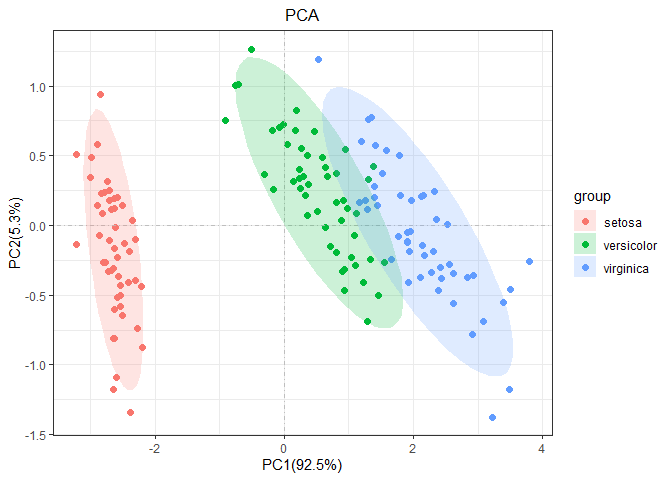
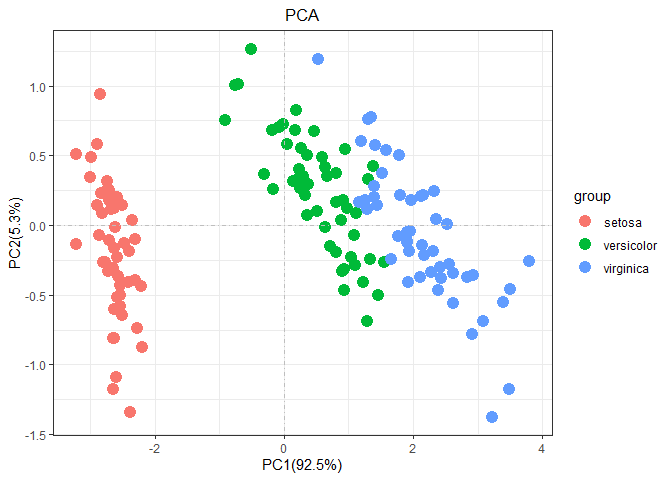
add new fuction 'add_ploy'

diff --git a/README.html b/README.html
@@ -612,33 +612,27 @@ body {
 <p>The R packages only can install the development version from <a href="https://github.com/">GitHub</a> with:</p>
 <div class="sourceCode" id="cb1"><pre class="sourceCode r"><code class="sourceCode r"><a class="sourceLine" id="cb1-1" title="1"><span class="co"># install.packages(&quot;devtools&quot;)</span></a>
 <a class="sourceLine" id="cb1-2" title="2">devtools<span class="op">::</span><span class="kw">install_github</span>(<span class="st">&quot;wangjiaxuan666/autopca&quot;</span>)</a></code></pre></div>
+<p>Notice : if you install <code>autopca</code> failed , please check the R installed envirment. maybe you need install <code>tidyverse</code> or <code>plyr</code> before. IF YOU FAILED WITH ANGRY AND BOOM ERRORS. Please contact me with <a href="mailto:poormouse@126.com">poormouse@126.com</a> , I’ m sorry about what happen to you. Although it’s me, I also have to admit that this is a bug-filled R package.</p>
+<blockquote>
+<p>Every time I use this R packages , it will spend 95% time to fix new bug! Although it will spend a little time if i use the scicpt not R packages. Automation is always very difficult because it is suitable for all kinds of situations and data type. BUT IT IS A FUN WHEN A PROBLEM NEED TO THINK</p>
+</blockquote>
 <h2 id="example">Example</h2>
 <p>Before we start the PCA analysis, we first need to tidy the input data. We can use the function <code>pca_data_tidy</code>to make the data clean for the next PCA analysis.It should be noted that the format of the input data is very important to determine the success of subsequent analysis.</p>
 <p>Here, Emphasize the format of the input data. First, PCA analysis use the function <code>stat::prcomp</code>, Consequently the result given the every observed values’ Variance in principal components. the observed values is the <code>prcomp</code> data’ rownames. For example, the data iris</p>
 <div class="sourceCode" id="cb2"><pre class="sourceCode r"><code class="sourceCode r"><a class="sourceLine" id="cb2-1" title="1"><span class="kw">head</span>(iris)</a>
-<a class="sourceLine" id="cb2-2" title="2"><span class="co">#&gt;   Sepal.Length Sepal.Width Petal.Length</span></a>
-<a class="sourceLine" id="cb2-3" title="3"><span class="co">#&gt; 1          5.1         3.5          1.4</span></a>
-<a class="sourceLine" id="cb2-4" title="4"><span class="co">#&gt; 2          4.9         3.0          1.4</span></a>
-<a class="sourceLine" id="cb2-5" title="5"><span class="co">#&gt; 3          4.7         3.2          1.3</span></a>
-<a class="sourceLine" id="cb2-6" title="6"><span class="co">#&gt; 4          4.6         3.1          1.5</span></a>
-<a class="sourceLine" id="cb2-7" title="7"><span class="co">#&gt; 5          5.0         3.6          1.4</span></a>
-<a class="sourceLine" id="cb2-8" title="8"><span class="co">#&gt; 6          5.4         3.9          1.7</span></a>
-<a class="sourceLine" id="cb2-9" title="9"><span class="co">#&gt;   Petal.Width Species</span></a>
-<a class="sourceLine" id="cb2-10" title="10"><span class="co">#&gt; 1         0.2  setosa</span></a>
-<a class="sourceLine" id="cb2-11" title="11"><span class="co">#&gt; 2         0.2  setosa</span></a>
-<a class="sourceLine" id="cb2-12" title="12"><span class="co">#&gt; 3         0.2  setosa</span></a>
-<a class="sourceLine" id="cb2-13" title="13"><span class="co">#&gt; 4         0.2  setosa</span></a>
-<a class="sourceLine" id="cb2-14" title="14"><span class="co">#&gt; 5         0.2  setosa</span></a>
-<a class="sourceLine" id="cb2-15" title="15"><span class="co">#&gt; 6         0.4  setosa</span></a></code></pre></div>
+<a class="sourceLine" id="cb2-2" title="2"><span class="co">#&gt;   Sepal.Length Sepal.Width Petal.Length Petal.Width Species</span></a>
+<a class="sourceLine" id="cb2-3" title="3"><span class="co">#&gt; 1          5.1         3.5          1.4         0.2  setosa</span></a>
+<a class="sourceLine" id="cb2-4" title="4"><span class="co">#&gt; 2          4.9         3.0          1.4         0.2  setosa</span></a>
+<a class="sourceLine" id="cb2-5" title="5"><span class="co">#&gt; 3          4.7         3.2          1.3         0.2  setosa</span></a>
+<a class="sourceLine" id="cb2-6" title="6"><span class="co">#&gt; 4          4.6         3.1          1.5         0.2  setosa</span></a>
+<a class="sourceLine" id="cb2-7" title="7"><span class="co">#&gt; 5          5.0         3.6          1.4         0.2  setosa</span></a>
+<a class="sourceLine" id="cb2-8" title="8"><span class="co">#&gt; 6          5.4         3.9          1.7         0.4  setosa</span></a></code></pre></div>
 <p>the rownames is every iris ID number, in iris, we want to demonstrate the proportion of each iris flower in terms of petal length and width and so on. That is we want, so for iris data, we just tidy a little for next analysis. Just like</p>
 <div class="sourceCode" id="cb3"><pre class="sourceCode r"><code class="sourceCode r"><a class="sourceLine" id="cb3-1" title="1"><span class="kw">library</span>(autopca)</a>
 <a class="sourceLine" id="cb3-2" title="2">irisgroup &lt;-<span class="st"> </span>iris[,<span class="dv">5</span>] </a>
 <a class="sourceLine" id="cb3-3" title="3">iristidy &lt;-<span class="st"> </span>iris[,<span class="op">-</span><span class="dv">5</span>]</a>
-<a class="sourceLine" id="cb3-4" title="4"><span class="kw">pca</span>(iristidy,<span class="dt">sample_group =</span> <span class="kw">as.data.frame</span>(irisgroup))</a>
-<a class="sourceLine" id="cb3-5" title="5"><span class="co">#&gt; ...Notice: the sequence of sample names</span></a>
-<a class="sourceLine" id="cb3-6" title="6"><span class="co">#&gt; ...must be matched for the input data rownames</span></a>
-<a class="sourceLine" id="cb3-7" title="7"><span class="co">#&gt; ...If not,the result probably is wrong</span></a></code></pre></div>
[1 lines of base64/hex data omitted]
+<a class="sourceLine" id="cb3-4" title="4"><span class="kw">pca</span>(iristidy,<span class="dt">sample_group =</span> <span class="kw">as.data.frame</span>(irisgroup))</a></code></pre></div>
[1 lines of base64/hex data omitted]
 <div class="sourceCode" id="cb4"><pre class="sourceCode r"><code class="sourceCode r"><a class="sourceLine" id="cb4-1" title="1"><span class="co">#pca(iris)</span></a></code></pre></div>
 <p>As for why and how to use <code>autopca</code>, We need to start from the beginning.</p>
 <h2 id="illustration">Illustration</h2>
@@ -652,27 +646,27 @@ body {
 <a class="sourceLine" id="cb5-7" title="7">annot &lt;-<span class="st"> </span><span class="kw">c</span>(<span class="kw">rep</span>(<span class="st">&quot;KEGG&quot;</span>,<span class="dv">20</span>))</a>
 <a class="sourceLine" id="cb5-8" title="8">test &lt;-<span class="st"> </span><span class="kw">data.frame</span>(test,annot)</a>
 <a class="sourceLine" id="cb5-9" title="9"><span class="kw">head</span>(test)</a>
-<a class="sourceLine" id="cb5-10" title="10"><span class="co">#&gt;          Test1       Test2    Test3       Test4</span></a>
-<a class="sourceLine" id="cb5-11" title="11"><span class="co">#&gt; Gene1 2.672491 -1.46949959 3.252826 -0.06280428</span></a>
-<a class="sourceLine" id="cb5-12" title="12"><span class="co">#&gt; Gene2 2.768949 -0.44892401 2.494386  0.74132818</span></a>
-<a class="sourceLine" id="cb5-13" title="13"><span class="co">#&gt; Gene3 1.698751 -0.61545118 3.013371 -0.25985327</span></a>
-<a class="sourceLine" id="cb5-14" title="14"><span class="co">#&gt; Gene4 1.583889 -0.58912730 3.427422 -0.74294740</span></a>
-<a class="sourceLine" id="cb5-15" title="15"><span class="co">#&gt; Gene5 3.219542 -0.06015898 2.593541  1.01296907</span></a>
-<a class="sourceLine" id="cb5-16" title="16"><span class="co">#&gt; Gene6 3.966006  1.12396478 2.956866 -0.72447530</span></a>
-<a class="sourceLine" id="cb5-17" title="17"><span class="co">#&gt;          Test5      Test6    Test7      Test8</span></a>
-<a class="sourceLine" id="cb5-18" title="18"><span class="co">#&gt; Gene1 3.235160  1.5198640 1.382669  0.4984374</span></a>
-<a class="sourceLine" id="cb5-19" title="19"><span class="co">#&gt; Gene2 2.872426  0.9858101 2.941147 -1.5424356</span></a>
-<a class="sourceLine" id="cb5-20" title="20"><span class="co">#&gt; Gene3 3.712901 -0.7299233 2.186138 -0.8485324</span></a>
-<a class="sourceLine" id="cb5-21" title="21"><span class="co">#&gt; Gene4 3.386010 -0.1949071 1.831074  0.9943122</span></a>
-<a class="sourceLine" id="cb5-22" title="22"><span class="co">#&gt; Gene5 4.190842  0.1630293 2.902171  0.3229494</span></a>
-<a class="sourceLine" id="cb5-23" title="23"><span class="co">#&gt; Gene6 3.848001  0.7799471 3.962820  1.3969977</span></a>
-<a class="sourceLine" id="cb5-24" title="24"><span class="co">#&gt;          Test9     Test10 annot</span></a>
-<a class="sourceLine" id="cb5-25" title="25"><span class="co">#&gt; Gene1 1.974234 -1.2025494  KEGG</span></a>
-<a class="sourceLine" id="cb5-26" title="26"><span class="co">#&gt; Gene2 3.583025  1.5028618  KEGG</span></a>
-<a class="sourceLine" id="cb5-27" title="27"><span class="co">#&gt; Gene3 3.523533 -0.1408430  KEGG</span></a>
-<a class="sourceLine" id="cb5-28" title="28"><span class="co">#&gt; Gene4 2.913314  0.8756251  KEGG</span></a>
-<a class="sourceLine" id="cb5-29" title="29"><span class="co">#&gt; Gene5 3.837058 -0.2416067  KEGG</span></a>
-<a class="sourceLine" id="cb5-30" title="30"><span class="co">#&gt; Gene6 5.665606  2.2361524  KEGG</span></a></code></pre></div>
+<a class="sourceLine" id="cb5-10" title="10"><span class="co">#&gt;          Test1       Test2     Test3       Test4    Test5</span></a>
+<a class="sourceLine" id="cb5-11" title="11"><span class="co">#&gt; Gene1 2.642318  0.01075823 1.9318349  1.14098262 5.112472</span></a>
+<a class="sourceLine" id="cb5-12" title="12"><span class="co">#&gt; Gene2 2.044672 -1.38949156 4.2521659 -0.63611784 2.544465</span></a>
+<a class="sourceLine" id="cb5-13" title="13"><span class="co">#&gt; Gene3 3.919184 -1.54281478 0.5474906 -0.06008812 3.497520</span></a>
+<a class="sourceLine" id="cb5-14" title="14"><span class="co">#&gt; Gene4 3.121889  0.39156311 2.8473876 -0.41146476 3.741726</span></a>
+<a class="sourceLine" id="cb5-15" title="15"><span class="co">#&gt; Gene5 4.102010  0.12145176 3.8684541  0.78510128 2.834575</span></a>
+<a class="sourceLine" id="cb5-16" title="16"><span class="co">#&gt; Gene6 1.950746  1.80108926 3.4667097 -0.53656806 3.342860</span></a>
+<a class="sourceLine" id="cb5-17" title="17"><span class="co">#&gt;             Test6    Test7      Test8    Test9     Test10</span></a>
+<a class="sourceLine" id="cb5-18" title="18"><span class="co">#&gt; Gene1 -0.77909277 3.776393 -1.0024396 2.275687 -0.2687162</span></a>
+<a class="sourceLine" id="cb5-19" title="19"><span class="co">#&gt; Gene2 -0.10227370 2.231693 -0.8370866 1.668522 -1.2718992</span></a>
+<a class="sourceLine" id="cb5-20" title="20"><span class="co">#&gt; Gene3 -0.77420999 3.765379 -0.9111919 2.003686  1.0643598</span></a>
+<a class="sourceLine" id="cb5-21" title="21"><span class="co">#&gt; Gene4 -1.87039530 2.353270  0.1492055 2.283257 -0.8706385</span></a>
+<a class="sourceLine" id="cb5-22" title="22"><span class="co">#&gt; Gene5 -0.02644458 2.875756  1.5934489 3.165864  1.4495411</span></a>
+<a class="sourceLine" id="cb5-23" title="23"><span class="co">#&gt; Gene6 -1.61785791 3.052599  1.5223910 2.276190 -1.1291582</span></a>
+<a class="sourceLine" id="cb5-24" title="24"><span class="co">#&gt;       annot</span></a>
+<a class="sourceLine" id="cb5-25" title="25"><span class="co">#&gt; Gene1  KEGG</span></a>
+<a class="sourceLine" id="cb5-26" title="26"><span class="co">#&gt; Gene2  KEGG</span></a>
+<a class="sourceLine" id="cb5-27" title="27"><span class="co">#&gt; Gene3  KEGG</span></a>
+<a class="sourceLine" id="cb5-28" title="28"><span class="co">#&gt; Gene4  KEGG</span></a>
+<a class="sourceLine" id="cb5-29" title="29"><span class="co">#&gt; Gene5  KEGG</span></a>
+<a class="sourceLine" id="cb5-30" title="30"><span class="co">#&gt; Gene6  KEGG</span></a></code></pre></div>
 <p>Through the above steps, we obtained a classic transcriptome data frame. <strong>NOW WE explain the sample variance in PC. So we need tidy the data by the function<code>pca_data_tidy</code>.</strong></p>
 <div class="sourceCode" id="cb6"><pre class="sourceCode r"><code class="sourceCode r"><a class="sourceLine" id="cb6-1" title="1"><span class="kw">pca_data_tidy</span>(<span class="kw">as.data.frame</span>(test)) -&gt;<span class="st"> </span>test_tidy</a>
 <a class="sourceLine" id="cb6-2" title="2"><span class="co">#&gt; ... Notice: the input data is a data frame not a tibble</span></a>
@@ -691,12 +685,52 @@ body {
 <a class="sourceLine" id="cb7-9" title="9"><span class="co">#&gt; Test4     A</span></a>
 <a class="sourceLine" id="cb7-10" title="10"><span class="co">#&gt; Test5     A</span></a>
 <a class="sourceLine" id="cb7-11" title="11"><span class="co">#&gt; Test6     B</span></a>
-<a class="sourceLine" id="cb7-12" title="12"><span class="kw">pca</span>(test_tidy,<span class="dt">sample_group =</span> group)</a>
-<a class="sourceLine" id="cb7-13" title="13"><span class="co">#&gt; ...Notice: the sequence of sample names</span></a>
-<a class="sourceLine" id="cb7-14" title="14"><span class="co">#&gt; ...must be matched for the input data rownames</span></a>
-<a class="sourceLine" id="cb7-15" title="15"><span class="co">#&gt; ...If not,the result probably is wrong</span></a></code></pre></div>
[1 lines of base64/hex data omitted]
+<a class="sourceLine" id="cb7-12" title="12"><span class="kw">pca</span>(test_tidy,<span class="dt">sample_group =</span> group)</a></code></pre></div>
[1 lines of base64/hex data omitted]
 
+<p>But <code>pca</code> function not only that, It supports regular matching characters to replace the names of sample or group. When the sample names is “CK-1_fokm, CK-2_fokm,” and so on , It will be very useful.</p>
+<div class="sourceCode" id="cb8"><pre class="sourceCode r"><code class="sourceCode r"><a class="sourceLine" id="cb8-1" title="1"><span class="co">#pca(data = re,# the data didn&#39;t exist,just a example to display the parameter</span></a>
+<a class="sourceLine" id="cb8-2" title="2"><span class="co">#    display_sample = TRUE,</span></a>
+<a class="sourceLine" id="cb8-3" title="3"><span class="co">#    rename = &quot;replace&quot;,</span></a>
+<a class="sourceLine" id="cb8-4" title="4"><span class="co">#    str_sample = &quot;_.*&quot;,</span></a>
+<a class="sourceLine" id="cb8-5" title="5"><span class="co">#    str_group = &quot;-\\d$&quot;,</span></a>
+<a class="sourceLine" id="cb8-6" title="6"><span class="co">#    add_ploy = TRUE)</span></a></code></pre></div>
+<p>ALL parameters explain :</p>
+<p><strong>Usage</strong>:</p>
+<pre><code>pca(
+  data = data,
+  center = T,
+  retx = T,
+  scale = FALSE,
+  display_sample = FALSE,
+  rename = c(&quot;diy&quot;, &quot;replace&quot;),
+  sample_group = NULL,
+  str_sample = NULL,
+  str_group = &quot;-.*&quot;,
+  add_ploy = FALSE
+)
+</code></pre>
+<p><strong>Arguments</strong></p>
+<pre><code>data:iput data form the function &#39;pca_data_tidy&#39;
+
+center:the prcomp param, detail see &#39;?prcomp&#39;
+
+retx:the prcomp param, detail see &#39;?prcomp&#39;
+
+scale:the prcomp param, detail see &#39;?prcomp&#39;
+
+display_sample:if TRUE will add the text labels on points.
+
+rename：the method for change the sample and group names, two argment can choose, &quot;diy&quot; is for the creat a data for name,&quot;replace&quot; is use regexp to replace or change the name
+
+sample_group：a data for change the sample and group name, the rownames is sample and the first column is group
+
+str_sample:the &#39;regexp&#39; for the sample name to become the target name
+
+str_group:the &#39;regexp&#39; for the group name to become the target name
+
+add_ploy:if TRUE will add the polygon on points.
+</code></pre>
 <p>Of course, as a fan of <code>tidyverse</code>, all function in <code>autopca</code> also support <code>tibble</code> data input. If there are any questions and suggestions in use, welcome questions and suggestions</p>
 
 </body>

diff --git a/README.md b/README.md
@@ -25,6 +25,18 @@ The R packages only can install the development version from
 devtools::install_github("wangjiaxuan666/autopca")
 ```
 
+Notice : if you install `autopca` failed , please check the R installed
+envirment. maybe you need install `tidyverse` or `plyr` before. IF YOU
+FAILED WITH ANGRY AND BOOM ERRORS. Please contact me with
+<poormouse@126.com> , I’ m sorry about what happen to you. Although it’s
+me, I also have to admit that this is a bug-filled R package.
+
+> Every time I use this R packages , it will spend 95% time to fix new
+> bug\! Although it will spend a little time if i use the scicpt not R
+> packages. Automation is always very difficult because it is suitable
+> for all kinds of situations and data type. BUT IT IS A FUN WHEN A
+> PROBLEM NEED TO THINK
+
 ## Example
 
 Before we start the PCA analysis, we first need to tidy the input data.
@@ -39,20 +51,13 @@ is the `prcomp` data’ rownames. For example, the data iris
 
 ``` r
 head(iris)
-#>   Sepal.Length Sepal.Width Petal.Length
-#> 1          5.1         3.5          1.4
-#> 2          4.9         3.0          1.4
-#> 3          4.7         3.2          1.3
-#> 4          4.6         3.1          1.5
-#> 5          5.0         3.6          1.4
-#> 6          5.4         3.9          1.7
-#>   Petal.Width Species
-#> 1         0.2  setosa
-#> 2         0.2  setosa
-#> 3         0.2  setosa
-#> 4         0.2  setosa
-#> 5         0.2  setosa
-#> 6         0.4  setosa
+#>   Sepal.Length Sepal.Width Petal.Length Petal.Width Species
+#> 1          5.1         3.5          1.4         0.2  setosa
+#> 2          4.9         3.0          1.4         0.2  setosa
+#> 3          4.7         3.2          1.3         0.2  setosa
+#> 4          4.6         3.1          1.5         0.2  setosa
+#> 5          5.0         3.6          1.4         0.2  setosa
+#> 6          5.4         3.9          1.7         0.4  setosa
 ```
 
 the rownames is every iris ID number, in iris, we want to demonstrate
@@ -65,9 +70,6 @@ library(autopca)
 irisgroup <- iris[,5] 
 iristidy <- iris[,-5]
 pca(iristidy,sample_group = as.data.frame(irisgroup))
-#> ...Notice: the sequence of sample names
-#> ...must be matched for the input data rownames
-#> ...If not,the result probably is wrong
 ```
 
 <img src="man/figures/README-unnamed-chunk-2-1.png" width="100%" /> the
@@ -97,27 +99,27 @@ rownames(test) = paste("Gene", 1:20, sep = "")
 annot <- c(rep("KEGG",20))
 test <- data.frame(test,annot)
 head(test)
-#>          Test1       Test2    Test3       Test4
-#> Gene1 2.672491 -1.46949959 3.252826 -0.06280428
-#> Gene2 2.768949 -0.44892401 2.494386  0.74132818
-#> Gene3 1.698751 -0.61545118 3.013371 -0.25985327
-#> Gene4 1.583889 -0.58912730 3.427422 -0.74294740
-#> Gene5 3.219542 -0.06015898 2.593541  1.01296907
-#> Gene6 3.966006  1.12396478 2.956866 -0.72447530
-#>          Test5      Test6    Test7      Test8
-#> Gene1 3.235160  1.5198640 1.382669  0.4984374
-#> Gene2 2.872426  0.9858101 2.941147 -1.5424356
-#> Gene3 3.712901 -0.7299233 2.186138 -0.8485324
-#> Gene4 3.386010 -0.1949071 1.831074  0.9943122
-#> Gene5 4.190842  0.1630293 2.902171  0.3229494
-#> Gene6 3.848001  0.7799471 3.962820  1.3969977
-#>          Test9     Test10 annot
-#> Gene1 1.974234 -1.2025494  KEGG
-#> Gene2 3.583025  1.5028618  KEGG
-#> Gene3 3.523533 -0.1408430  KEGG
-#> Gene4 2.913314  0.8756251  KEGG
-#> Gene5 3.837058 -0.2416067  KEGG
-#> Gene6 5.665606  2.2361524  KEGG
+#>          Test1       Test2     Test3       Test4    Test5
+#> Gene1 2.642318  0.01075823 1.9318349  1.14098262 5.112472
+#> Gene2 2.044672 -1.38949156 4.2521659 -0.63611784 2.544465
+#> Gene3 3.919184 -1.54281478 0.5474906 -0.06008812 3.497520
+#> Gene4 3.121889  0.39156311 2.8473876 -0.41146476 3.741726
+#> Gene5 4.102010  0.12145176 3.8684541  0.78510128 2.834575
+#> Gene6 1.950746  1.80108926 3.4667097 -0.53656806 3.342860
+#>             Test6    Test7      Test8    Test9     Test10
+#> Gene1 -0.77909277 3.776393 -1.0024396 2.275687 -0.2687162
+#> Gene2 -0.10227370 2.231693 -0.8370866 1.668522 -1.2718992
+#> Gene3 -0.77420999 3.765379 -0.9111919 2.003686  1.0643598
+#> Gene4 -1.87039530 2.353270  0.1492055 2.283257 -0.8706385
+#> Gene5 -0.02644458 2.875756  1.5934489 3.165864  1.4495411
+#> Gene6 -1.61785791 3.052599  1.5223910 2.276190 -1.1291582
+#>       annot
+#> Gene1  KEGG
+#> Gene2  KEGG
+#> Gene3  KEGG
+#> Gene4  KEGG
+#> Gene5  KEGG
+#> Gene6  KEGG
 ```
 
 Through the above steps, we obtained a classic transcriptome data frame.
@@ -147,12 +149,62 @@ head(group)
 #> Test5     A
 #> Test6     B
 pca(test_tidy,sample_group = group)
-#> ...Notice: the sequence of sample names
-#> ...must be matched for the input data rownames
-#> ...If not,the result probably is wrong
 ```
 
 <img src="man/figures/README-unnamed-chunk-6-1.png" width="100%" />
+
+But `pca` function not only that, It supports regular matching
+characters to replace the names of sample or group. When the sample
+names is “CK-1\_fokm, CK-2\_fokm,” and so on , It will be very
+useful.
+
+``` r
+#pca(data = re,# the data didn't exist,just a example to display the parameter
+#    display_sample = TRUE,
+#    rename = "replace",
+#    str_sample = "_.*",
+#    str_group = "-\\d$",
+#    add_ploy = TRUE)
+```
+
+ALL parameters explain :
+
+**Usage**:
+
+    pca(
+      data = data,
+      center = T,
+      retx = T,
+      scale = FALSE,
+      display_sample = FALSE,
+      rename = c("diy", "replace"),
+      sample_group = NULL,
+      str_sample = NULL,
+      str_group = "-.*",
+      add_ploy = FALSE
+    )
+
+**Arguments**
+
+    data:iput data form the function 'pca_data_tidy'
+    
+    center:the prcomp param, detail see '?prcomp'
+    
+    retx:the prcomp param, detail see '?prcomp'
+    
+    scale:the prcomp param, detail see '?prcomp'
+    
+    display_sample:if TRUE will add the text labels on points.
+    
+    rename：the method for change the sample and group names, two argment can choose, "diy" is for the creat a data for name,"replace" is use regexp to replace or change the name
+    
+    sample_group：a data for change the sample and group name, the rownames is sample and the first column is group
+    
+    str_sample:the 'regexp' for the sample name to become the target name
+    
+    str_group:the 'regexp' for the group name to become the target name
+    
+    add_ploy:if TRUE will add the polygon on points.
 
 Of course, as a fan of `tidyverse`, all function in `autopca` also
 support `tibble` data input. If there are any questions and suggestions
